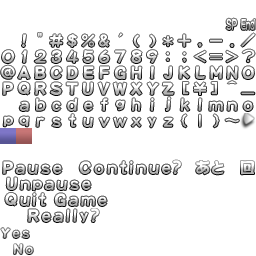
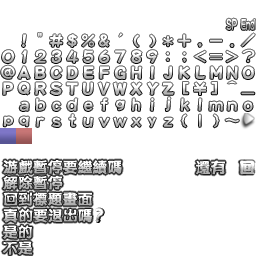
add pause menu texture

Changed region(s): [[0.0, 0.5938, 0.7188, 1.0], [0.75, 0.5938, 1.0, 0.6875]]

diff --git a/index.html b/index.html
@@ -11,18 +11,6 @@ body {
 input[type="radio"] {
 	opacity: 0;
 }
-input[type="radio"] + label {
-	-webkit-transition: all ease 0.4s;
-	    -ms-transition: all ease 0.4s;
-	   -moz-transition: all ease 0.4s;
-	opacity: 0.5;
-	font-weight: bold;
-	cursor: pointer;
-}
-input[type="radio"]:focus + label {
-	opacity: 1;
-	margin-left: -5px;
-}
 .absolute {
 	position: absolute;
 }
@@ -241,6 +229,40 @@ input[type="radio"]:focus + label {
 	float: left;
 	width: 48px;
 	height: 16px;
+}
+.menu {
+	background: url(res/ascii.png) 0 -160px;
+	width: 64px;
+	height: 16px;
+	display: inline-block;
+	cursor: pointer;
+	-webkit-transform: scale(1.5);
+	-webkit-transition: all ease 0.4s;
+	    -ms-transition: all ease 0.4s;
+	   -moz-transition: all ease 0.4s;
+	opacity: 0.4;
+}
+input[type="radio"]:focus + .menu {
+	background-image: url(res/asciis.png);
+	-webkit-transform: scale(1.8);
+	opacity: 1;
+}
+.menu-line {
+	margin: 10px;
+	margin-left: 110px;
+}
+.menu-pause {
+	margin-top: 168px;
+	margin-left: 160px;
+	margin-bottom: 5px;
+}
+.menu-pause-continue {
+	margin-top: 28px;
+	background-position: -0     -176px;
+}
+.menu-pause-quit {
+	width: 96px;
+	background-position: -0     -192px;
 }
 .num {
 	background: url(res/ascii.png) 0 -32px;
@@ -693,13 +715,21 @@ input[type="radio"]:focus + label {
 			<div class="td"><div class="font fd" style="background-position:0 -64px;"></div></div>
 		</div>
 	</div>
-	<div class="screen mask absolute ui" ui-show="GAME.state == GAME.states.PAUSE">
-		<strong><big><p class="ui text-center" ui-bind="keyfind(GAME.states, GAME.state)"></p></big></strong>
+	<div class="game mask absolute ui" ui-show="GAME.state == GAME.states.PAUSE">
+		<div class="menu menu-pause"></div>
 		<form action="javascript:eval(getRadioVal($('input[name=pause_menu]')))">
-			<p><input type="radio" name="pause_menu" value="GAME.state = GAME.states.RUNNING"><label>Continue</label></p>
-			<!--p><input type="radio" name="pause_menu" value=""><label>Back to Title</label></p-->
-			<p><input type="radio" name="pause_menu" value="loadAndStart()"><label>Restart</label></p>
-			<p><input type="radio" name="pause_menu" value="window.close()"><label>Quit</label></p>
+			<div class="menu-line">
+				<input type="radio" name="pause_menu" value="GAME.state = GAME.states.RUNNING">
+				<label class="menu menu-pause-continue"></label>
+			</div>
+			<div class="menu-line">
+				<input type="radio" name="pause_menu" value="window.close()">
+				<label class="menu menu-pause-quit"></label>
+			</div>
+			<div class="menu-line">
+				<input type="radio" name="pause_menu" value="loadAndStart()">
+				<label>Restart</label>
+			</div>
 			<input style="width:0px;opacity:0;" type="submit" />
 		</form>
 	</div>
